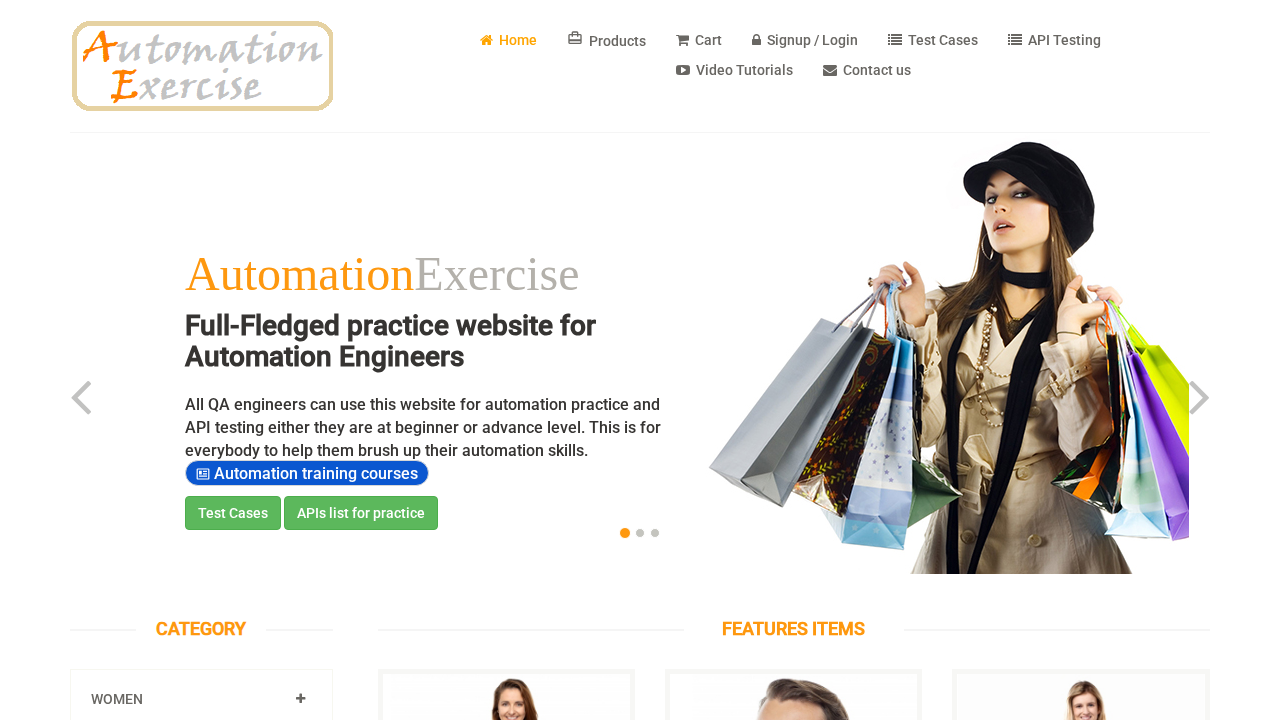
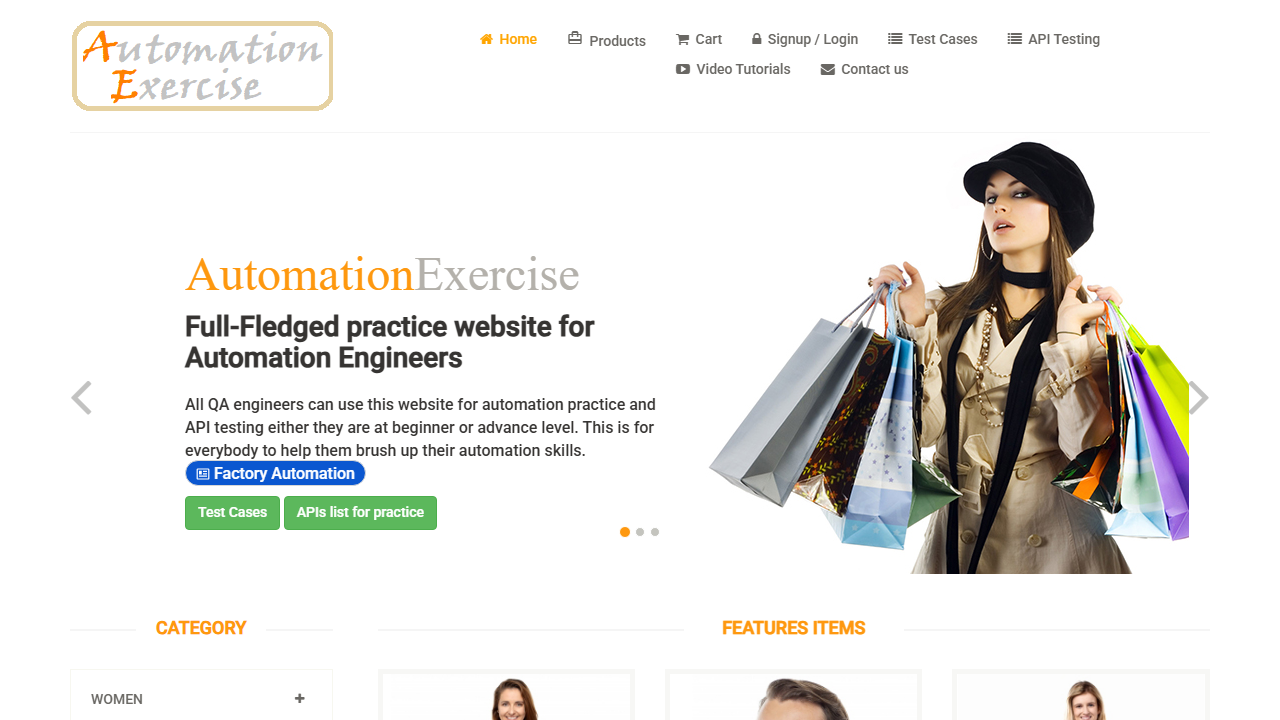
Capture real evidence screenshots for automationexercise (20 total)

diff --git a/01-ecommerce-automationexercise/06-evidence/README.md b/01-ecommerce-automationexercise/06-evidence/README.md
@@ -1,6 +1,6 @@
 # Evidence
 
-Real screenshots captured by Playwright during GitHub Actions runs against the live site — one per test case in [`../02-test-cases/test-cases.csv`](../02-test-cases/test-cases.csv), not a curated sample. Captured by [`../03-automation/tests/evidence.spec.ts`](../03-automation/tests/evidence.spec.ts).
+Real screenshots captured by Playwright against the live site — one per automated test case in [`../02-test-cases/test-cases.csv`](../02-test-cases/test-cases.csv), not a curated sample. Captured by [`../03-automation/tests/evidence.spec.ts`](../03-automation/tests/evidence.spec.ts).
 
 | File | Test Case |
 |------|-----------|
@@ -14,5 +14,14 @@ Real screenshots captured by Playwright during GitHub Actions runs against the l
 | `tc07-search-results.png` | TC-07 Search Product |
 | `tc08-cart-with-two-products.png` | TC-08 Add Products to Cart |
 | `tc09-quantity-set-to-4.png` | TC-09 Verify product quantity |
+| `tc13-test-cases-page.png` | TC-13 Test Cases page |
+| `tc14-product-detail-page.png` | TC-14 Product detail page |
+| `tc15-subscribe-home-success.png` | TC-15 Subscribe (home page) |
+| `tc16-subscribe-cart-success.png` | TC-16 Subscribe (cart page) |
+| `tc18-category-dress-products.png` | TC-18 Category navigation |
+| `tc19-brand-polo-products.png` | TC-19 Brand navigation |
+| `tc20-cart-persists-after-login.png` | TC-20 Cart persists across login |
+| `tc21-review-submitted.png` | TC-21 Product review — captured mid-run with a real Google Vignette ad interstitial covering the form (see [`../07-reports/sprint-02-report.md`](../07-reports/sprint-02-report.md)) |
+| `tc22-recommended-item-in-cart.png` | TC-22 Recommended items add-to-cart |
 
-TC-04/05/06/09's screenshots are pending the next CI run that completes the full evidence step (see [`../07-reports`](../07-reports) for status) — `home-page.png` and `tc07-search-results.png` are already captured and real.
+All 20 files above are real, captured live against the production site (most recently during this project's sprint 02 deepening pass). Test cases without a screenshot here (TC-10/11/12/17/23/24/25/26) are the ones intentionally kept manual — see [`../07-reports/final-report.md`](../07-reports/final-report.md) for why each one.